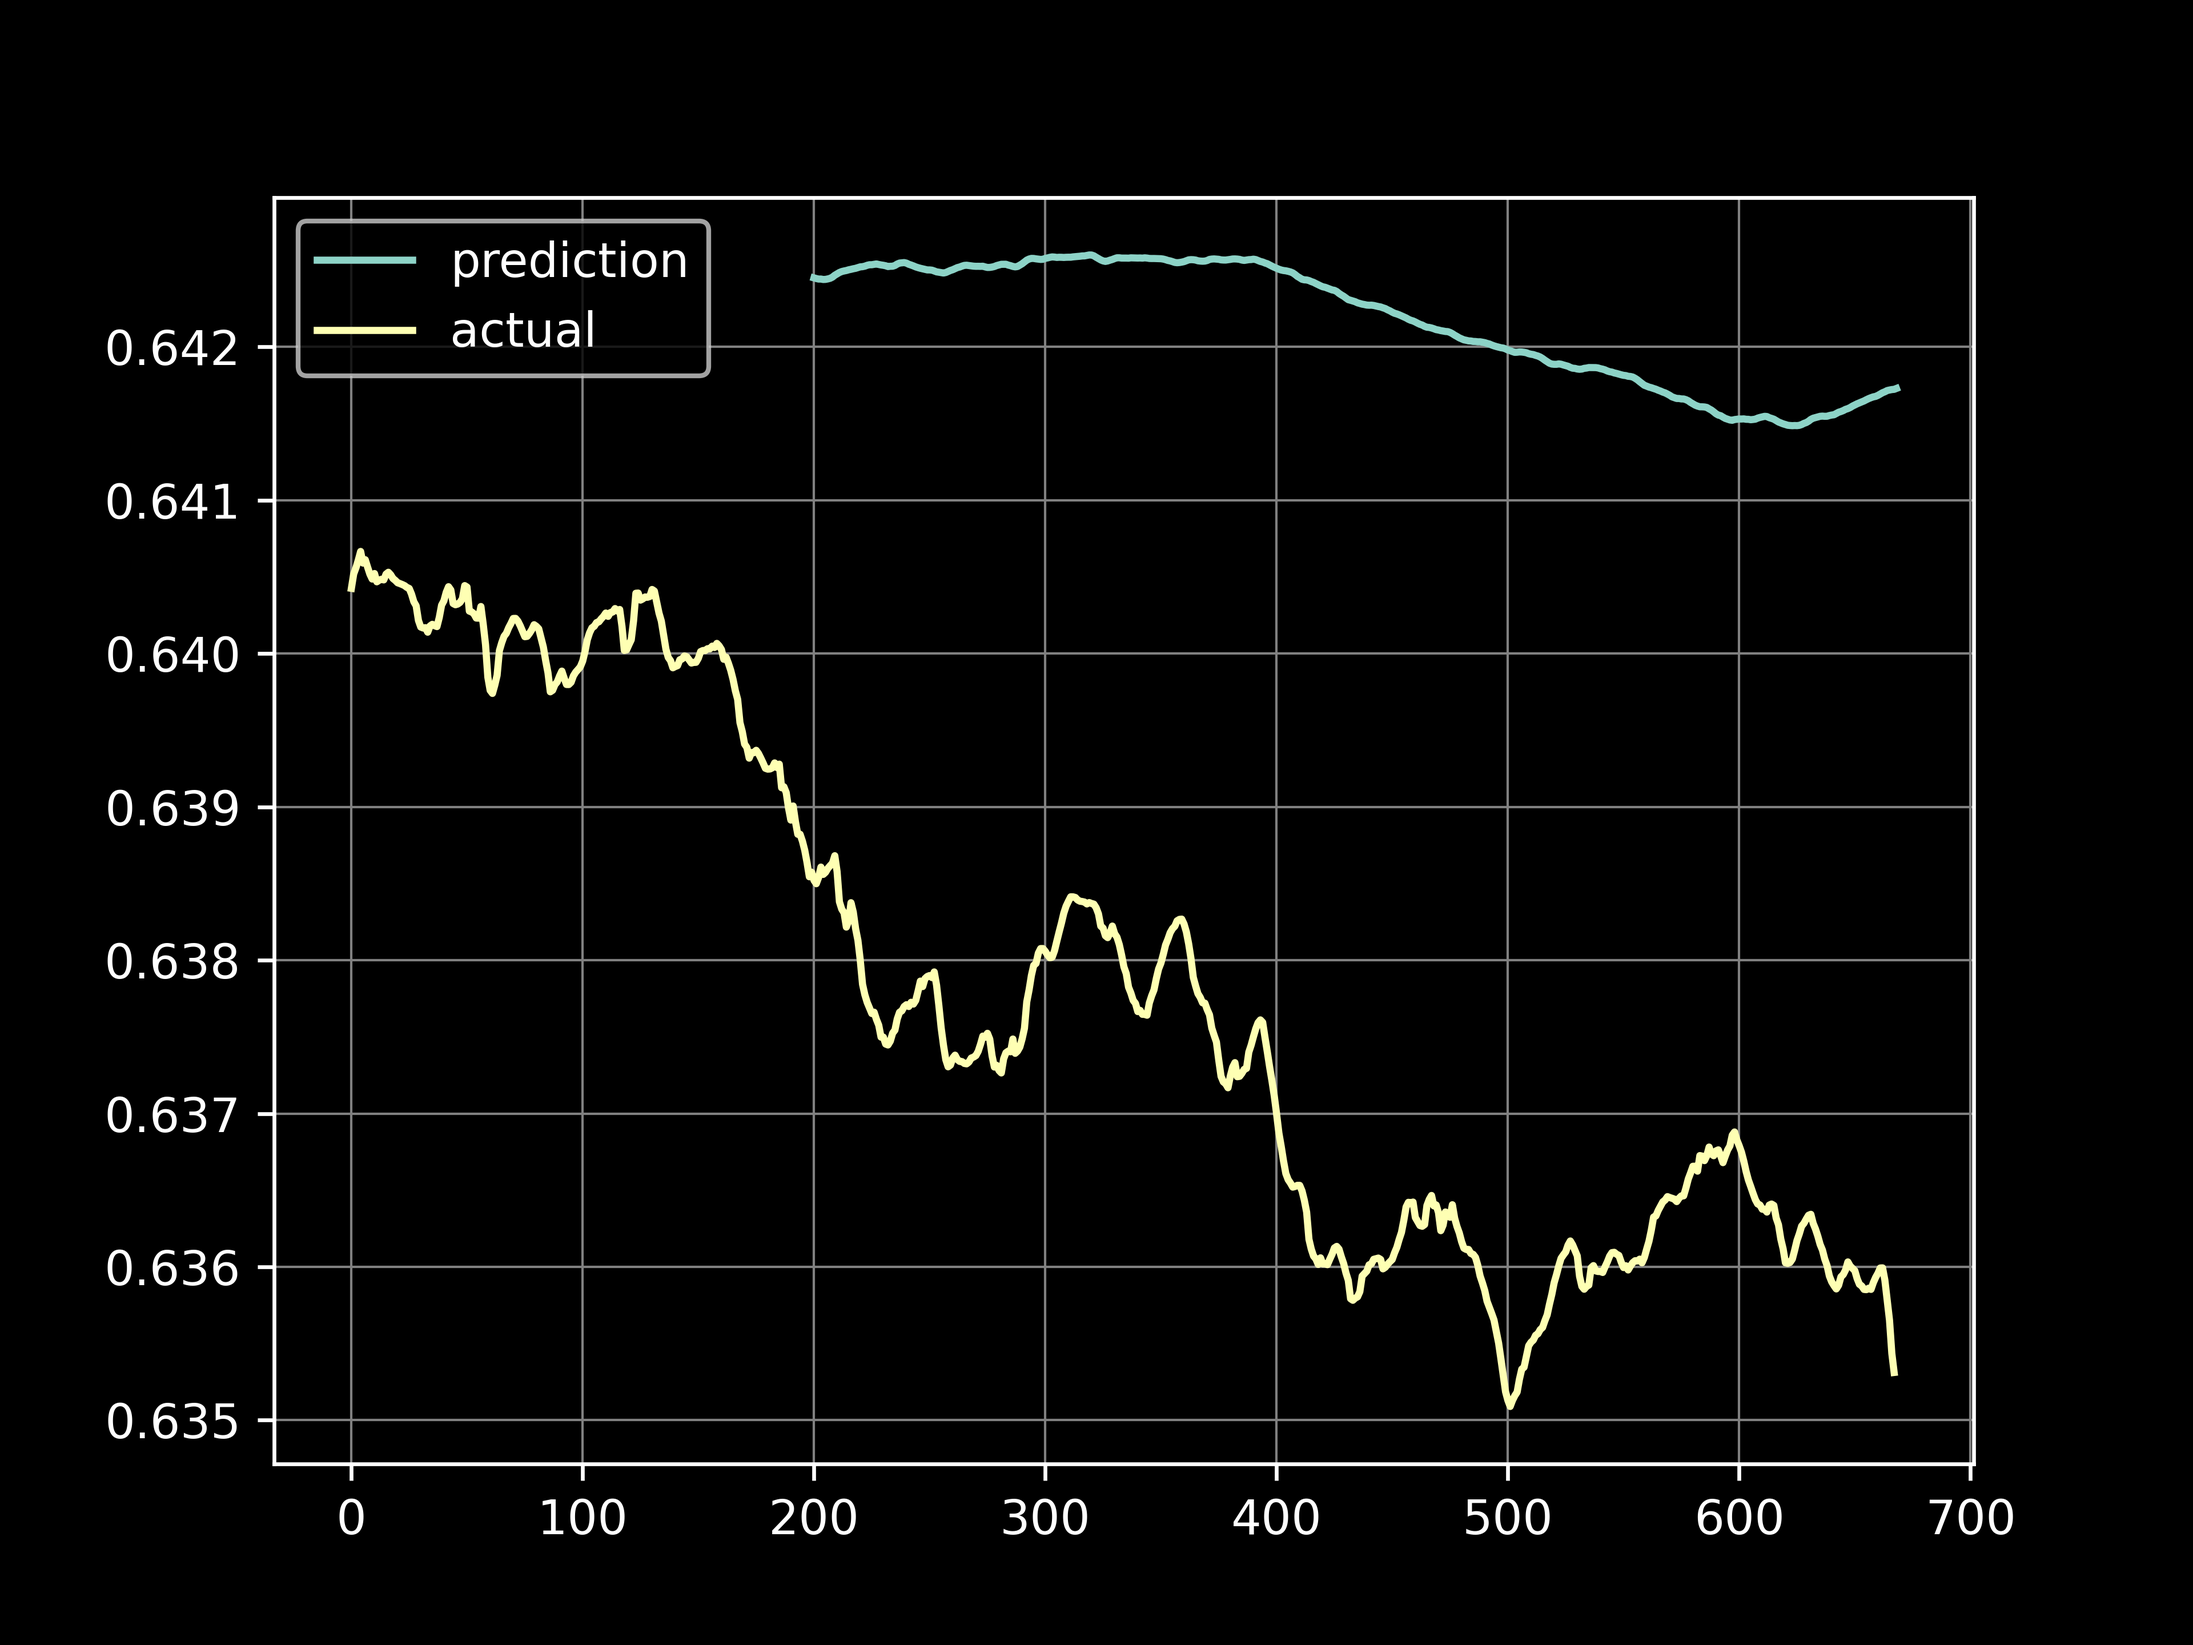
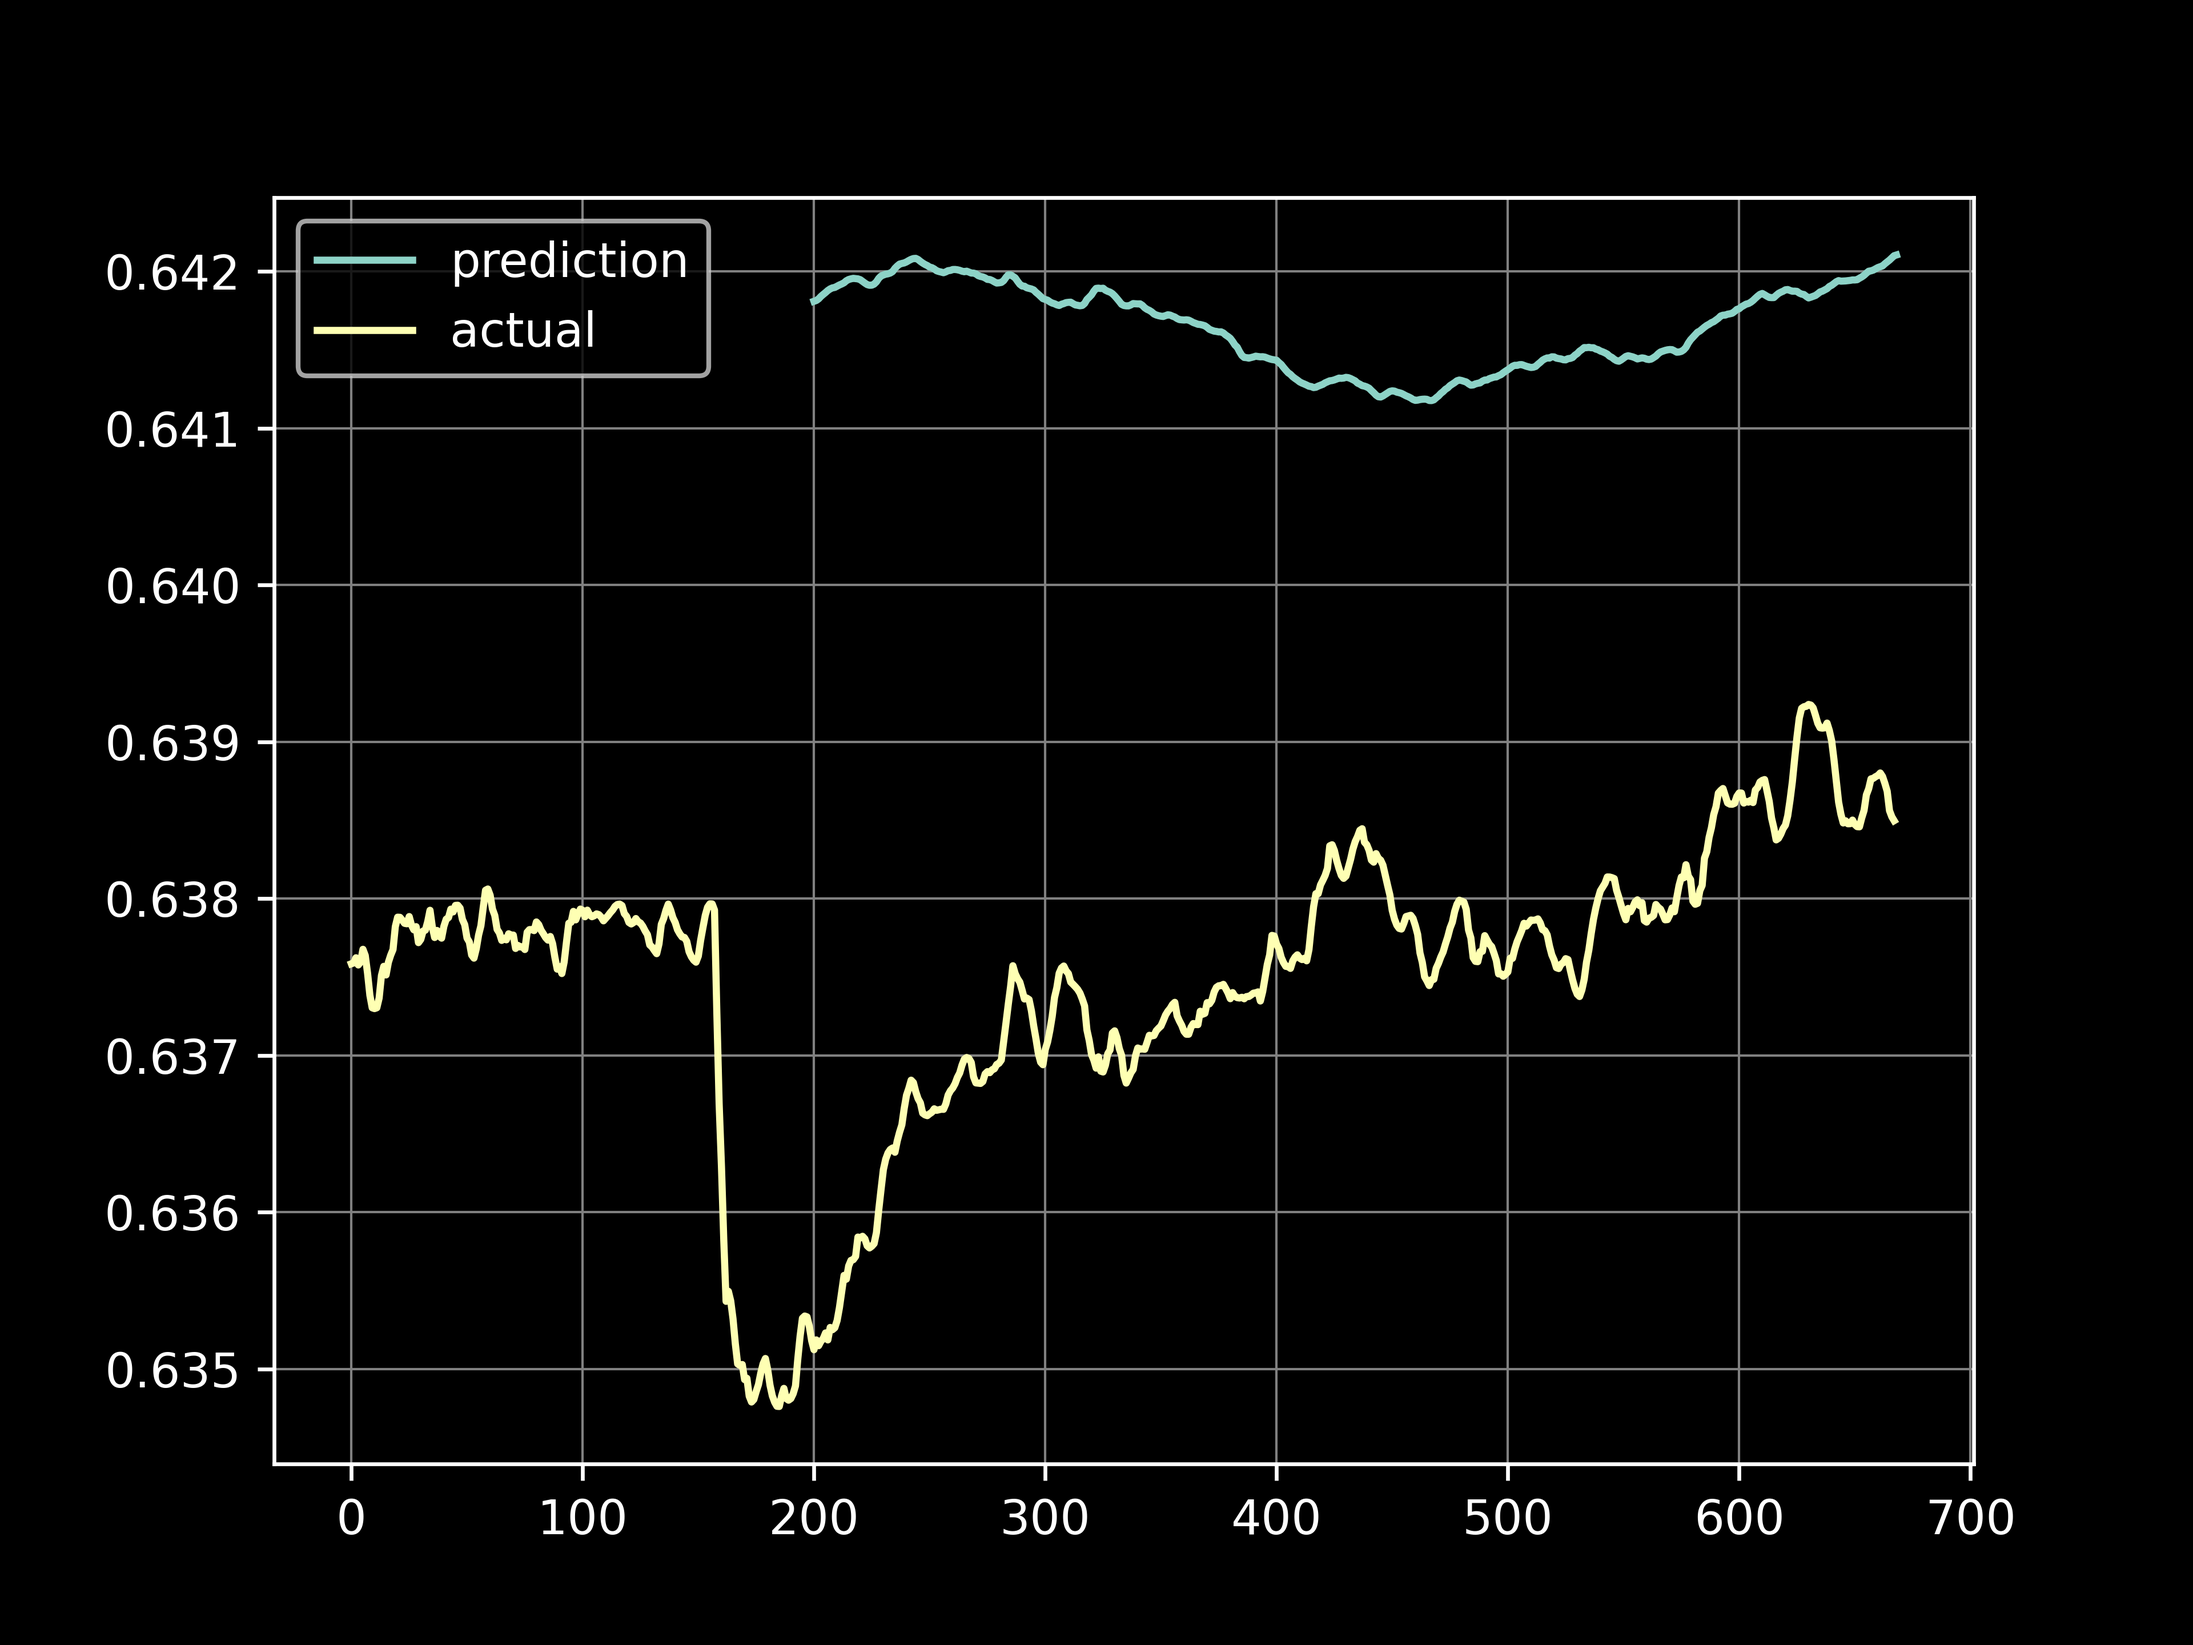
EDIT model config

diff --git a/src/testbench/config_tb.py b/src/testbench/config_tb.py
@@ -58,7 +58,7 @@ MODEL_DATA_SOURCE = f"{PREPROCESSOR_DATA_SOURCE}"
 MODEL_PATH = os.path.abspath(os.path.dirname(__file__))
 MODEL_NAME = 'EURUSD_15'
 TEST_EPOCHS = 200
-TEST_NEURONS = 128
+TEST_NEURONS = 64
 TEST_BATCH_SIZE = 16
 TEST_LEARNING_RATE = 0.0005
 PATH_TEST_RESULTS = os.path.abspath(os.path.join(os.path.dirname(__file__), os.path.curdir, "test_results"))
